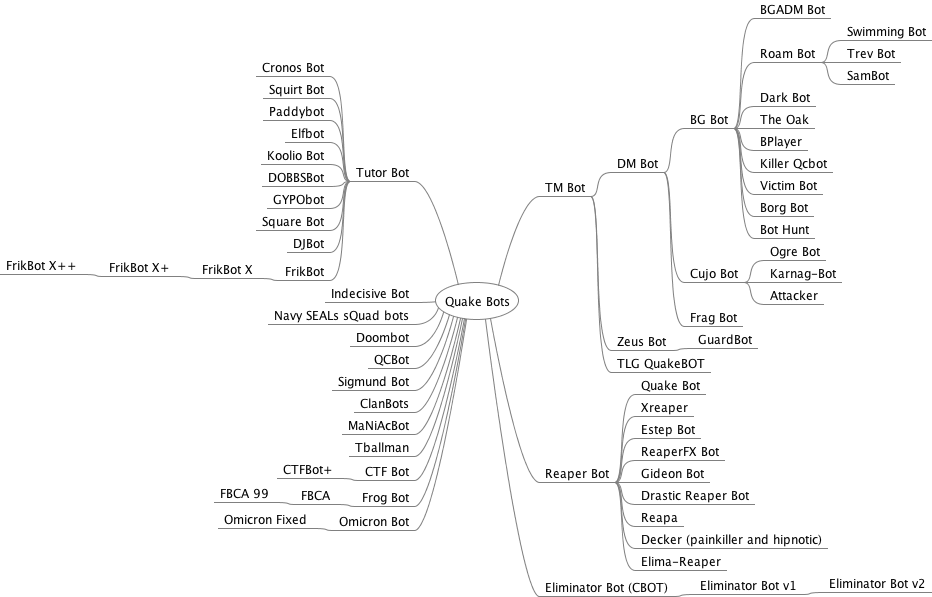
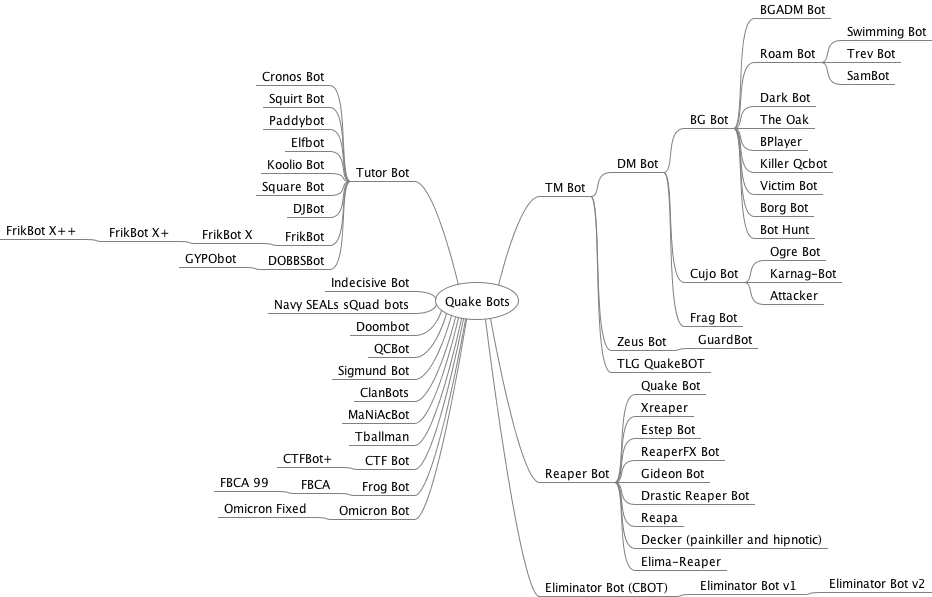
updated genealogy

Changed region(s): [[0.1245, 0.0905, 0.4979, 0.9045], [0.0, 0.4221, 0.0622, 0.4523], [0.0, 0.3618, 0.0622, 0.392]]

diff --git a/mindmap/QuakeBots.mm b/mindmap/QuakeBots.mm
@@ -7,8 +7,6 @@
 <node CREATED="1622666096174" ID="ID_1637279739" MODIFIED="1622666098346" TEXT="Paddybot"/>
 <node CREATED="1622667023223" ID="ID_1875001763" MODIFIED="1622667024461" TEXT="Elfbot"/>
 <node CREATED="1622667943906" ID="ID_660699926" MODIFIED="1622667947106" TEXT="Koolio Bot"/>
-<node CREATED="1622671253021" ID="ID_960217876" MODIFIED="1622671254106" TEXT="DOBBSBot"/>
-<node CREATED="1622671397035" ID="ID_120232391" MODIFIED="1622671398196" TEXT="GYPObot"/>
 <node CREATED="1622672469661" ID="ID_780822664" MODIFIED="1622672471287" TEXT="Square Bot"/>
 <node CREATED="1622683562613" ID="ID_966765878" MODIFIED="1622683565806" TEXT="DJBot"/>
 <node CREATED="1622514879263" ID="ID_981472223" MODIFIED="1622840432045" TEXT="FrikBot">
@@ -17,6 +15,9 @@
 <node CREATED="1622840424022" ID="ID_738003569" MODIFIED="1622840426964" TEXT="FrikBot X++"/>
 </node>
 </node>
+</node>
+<node CREATED="1622671253021" ID="ID_960217876" MODIFIED="1622671254106" TEXT="DOBBSBot">
+<node CREATED="1622671397035" ID="ID_120232391" MODIFIED="1622671398196" TEXT="GYPObot"/>
 </node>
 </node>
 <node CREATED="1622514200034" ID="ID_1362333058" MODIFIED="1622514302490" POSITION="right" TEXT="TM Bot">
